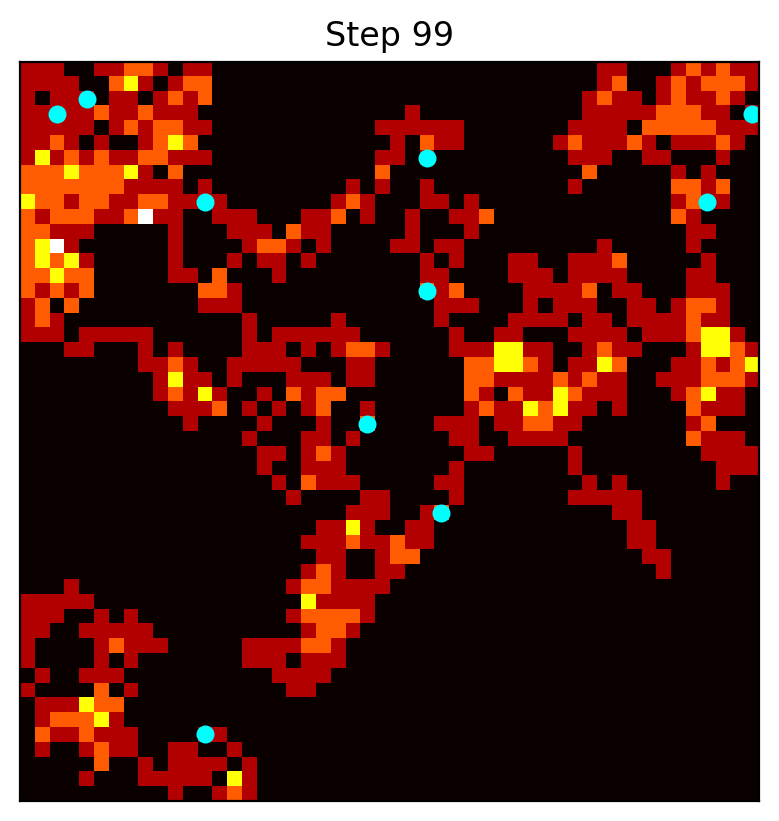
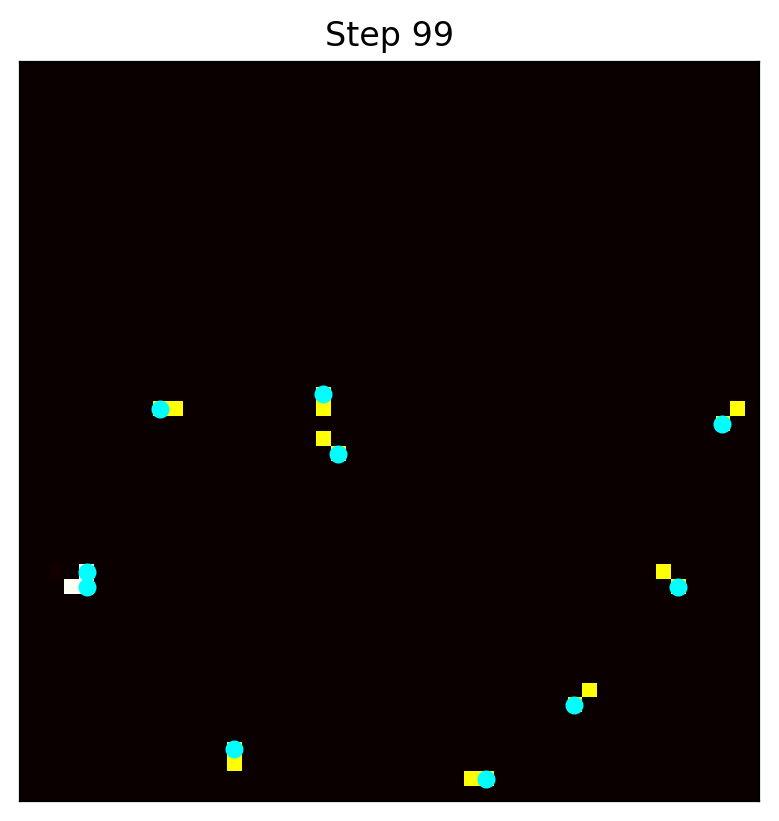
ss

diff --git a/agents.py b/agents.py
@@ -1,49 +1,123 @@
+# import numpy as np
+# import random
+
+# class Agent:
+
+#     def __init__(self, y, x, height, width):
+
+#         self.y = y
+#         self.x = x
+#         self.height = height
+#         self.width = width
+
+#     def step(self, potential):
+#         odds = self.getOdds(potential)
+
+#         (dy, dx) = random.choices([*odds.keys()],
+#             weights = [*odds.values()],k=1)[0]
+
+#         self.y = int(np.clip(self.y + dy, 0, self.height - 1))
+#         self.x = int(np.clip(self.x + dx, 0, self.width - 1))
+
+#         potential[self.y, self.x] += 1
+    
+#     def getOdds(self, potential):
+#         HEIGHT, WIDTH = potential.shape
+#         weights = {}
+#         for dy in [-1, 0, 1]:
+#             for dx in [-1, 0, 1]:
+#                 ny = self.y + dy
+#                 nx = self.x + dx
+
+#                 # 자기 자신 칸은 제외 (원하면 포함해도 됨)
+#                 if dy == 0 and dx == 0:
+#                     continue
+
+#                 # 경계 체크: "이동 결과 좌표"가 유효한지
+#                 if 0 <= ny < HEIGHT and 0 <= nx < WIDTH:
+#                     weights[(dy, dx)] = np.exp(-potential[ny, nx])
+#                 else:
+#                     # 맵 밖은 매우 큰 포텐셜 (사실상 못 가게)
+#                     weights[(dy, dx)] = np.exp(-1e9)
+
+#         total = sum(weights.values())
+#         for k in weights:
+#             weights[k] /= total
+    
+#         return weights
+
 import numpy as np
 import random
 
 class Agent:
 
-    def __init__(self, y, x, height, width):
+    def __init__(self, y, x, height, width, alpha):
 
         self.y = y
         self.x = x
         self.height = height
         self.width = width
+        self.alpha = alpha
 
-    def step(self, potential):
-        odds = self.getOdds(potential)
+    def step(self, potential, agents):
+        
+        odds = self.getOdds(potential, agents)
 
-        (dy, dx) = random.choices([*odds.keys()],
-            weights = [*odds.values()],k=1)[0]
+        (dy, dx) = random.choices(
+            list(odds.keys()),
+            weights=list(odds.values()),
+            k=1
+        )[0]
 
         self.y = int(np.clip(self.y + dy, 0, self.height - 1))
         self.x = int(np.clip(self.x + dx, 0, self.width - 1))
 
         potential[self.y, self.x] += 1
-    
-    def getOdds(self, potential):
-        HEIGHT, WIDTH = potential.shape
-        weights = {}
-        for dy in [-1, 0, 1]:
-            for dx in [-1, 0, 1]:
-                ny = self.y + dy
-                nx = self.x + dx
 
-                # 자기 자신 칸은 제외 (원하면 포함해도 됨)
+    
+    def getOdds(self, potential, agents):
+
+        HEIGHT, WIDTH = potential.shape
+
+        r = 5
+        k = 2
+        beta = 1.0   # repulsion weight
+
+        weights = {}
+
+        explore = 1.0 / (potential + 1e-3)
+
+        gy, gx = np.gradient(explore)
+
+        for dy in [-1,0,1]:
+            for dx in [-1,0,1]:
+
                 if dy == 0 and dx == 0:
                     continue
 
-                # 경계 체크: "이동 결과 좌표"가 유효한지
-                if 0 <= ny < HEIGHT and 0 <= nx < WIDTH:
-                    weights[(dy, dx)] = np.exp(-potential[ny, nx])
-                else:
-                    # 맵 밖은 매우 큰 포텐셜 (사실상 못 가게)
-                    weights[(dy, dx)] = np.exp(-1e9)
+                ny = self.y + dy
+                nx = self.x + dx
 
-        total = sum(weights.values())
-        for k in weights:
-            weights[k] /= total
-    
+                if not (0 <= ny < HEIGHT and 0 <= nx < WIDTH):
+                    weights[(dy,dx)] = 0
+                    continue
+
+                rep = 0.0
+
+                for other in agents:
+                    if other is self:
+                        continue
+
+                    d = np.hypot(other.y - ny, other.x - nx)
+
+                    if d < r:
+                        rep += k/(d+1e-3)
+
+                grad = gx[ny,nx]*dx + gy[ny,nx]*dy
+
+                v = self.alpha * explore[ny,nx] - beta * rep + grad
+                v = np.clip(v, -50, 50)
+
+                weights[(dy, dx)] = np.exp(v)
+
         return weights
-
-    

diff --git a/visualization.py b/visualization.py
@@ -2,44 +2,66 @@ import numpy as np
 import matplotlib.pyplot as plt
 import random
 from agents import Agent
+import time
 
-WIDTH = 50
-HEIGHT = 50
-NUM_AGENTS = 10
-STEPS = 100
+WIDTH = 100
+HEIGHT = 100
+STEPS = 200
+DECAY = 1
+N = 10   # agent count 고정
 
-potential = np.zeros((HEIGHT, WIDTH))
+def entropy(potential):
+    p = potential.flatten()
+    p = p / np.sum(p)
+    return -np.sum(p * np.log(p + 1e-10))
 
-agents = [
-    Agent(
-        random.randint(0, HEIGHT - 1),
-        random.randint(0, WIDTH - 1),
-        HEIGHT,
-        WIDTH
-    )
-    for _ in range(NUM_AGENTS)
-]
+def run_sim(alpha, seed=0):
 
-fig, ax = plt.subplots()
+    random.seed(seed)
+    np.random.seed(seed)
 
-for step in range(STEPS):
-    ax.clear()
+    potential = np.zeros((HEIGHT, WIDTH)) + 1e-6
 
-    for agent in agents:
-        agent.step(potential)
+    agents = [
+        Agent(
+            random.randint(0, HEIGHT - 1),
+            random.randint(0, WIDTH - 1),
+            HEIGHT,
+            WIDTH,
+            alpha
+        )
+        for _ in range(N)
+    ]
 
-    ax.imshow(potential, cmap="hot", origin="lower")
+    for t in range(STEPS):
+        potential *= DECAY
+        for agent in agents:
+            agent.step(potential, agents)
 
-    ys = [a.y for a in agents]
-    xs = [a.x for a in agents]
-    ax.scatter(xs, ys, c="cyan", s=30)
+    return entropy(potential)
 
-    ax.set_title(f"Step {step}")
-    ax.set_xticks([])
-    ax.set_yticks([])
+# =======================
+# alpha sweep
+# =======================
 
-    plt.pause(0.01)
+alphas = np.linspace(0.5, 300, 25)
+Hs = []
 
-plt.show()
+for a in alphas:
+    vals = []
+    for s in range(3):
+        vals.append(run_sim(a,seed=s))
+    Hs.append(np.mean(vals))
 
-plt.savefig("final_result.png", dpi=200, bbox_inches="tight")
+# =======================
+# plot
+# =======================
+
+plt.plot(alphas, Hs, marker="o")
+plt.xlabel("Alpha")
+plt.ylabel("Entropy")
+plt.title("Entropy vs Alpha")
+
+plt.tight_layout()
+plt.savefig("entropy_vs_alpha.png", dpi=200)
+plt.close()

diff --git a/visualizationRAND.py b/visualizationRAND.py
@@ -2,14 +2,23 @@ import numpy as np
 import matplotlib.pyplot as plt
 import random
 from matplotlib import animation
+from agents import Agent
 
-WIDTH, HEIGHT = 50, 50
+WIDTH = 100
+HEIGHT = 100
 NUM_AGENTS = 10
-STEPS = 100
+STEPS = 200
 
 potential = np.zeros((HEIGHT, WIDTH))
+
 agents = [
-    [random.randint(0, HEIGHT-1), random.randint(0, WIDTH-1)]
+    Agent(
+        random.randint(0, HEIGHT - 1),
+        random.randint(0, WIDTH - 1),
+        HEIGHT,
+        WIDTH,
+        alpha=10
+    )
     for _ in range(NUM_AGENTS)
 ]
 
@@ -19,20 +28,27 @@ def update(step):
     ax.clear()
 
     for agent in agents:
-        dy, dx = random.choice([(0,1),(0,-1),(1,0),(-1,0)])
-        agent[0] = np.clip(agent[0] + dy, 0, HEIGHT-1)
-        agent[1] = np.clip(agent[1] + dx, 0, WIDTH-1)
-        potential[agent[0], agent[1]] += 1
+        agent.step(potential, agents)
 
     ax.imshow(potential, cmap="hot", origin="lower")
-    ys = [a[0] for a in agents]
-    xs = [a[1] for a in agents]
+
+    ys = [a.y for a in agents]
+    xs = [a.x for a in agents]
     ax.scatter(xs, ys, c="cyan", s=30)
+
     ax.set_title(f"Step {step}")
     ax.set_xticks([])
     ax.set_yticks([])
 
-ani = animation.FuncAnimation(fig, update, frames=STEPS)
-ani.save("simulationRAND.gif", writer="pillow")
-plt.savefig("final_resultRAND.png", dpi=200, bbox_inches="tight")
+ani = animation.FuncAnimation(
+    fig,
+    update,
+    frames=STEPS,
+    interval=50
+)
+
+ani.save("swarm.gif", writer="pillow", dpi=150)
+
 plt.close()
+
+print("saved swarm.gif")
